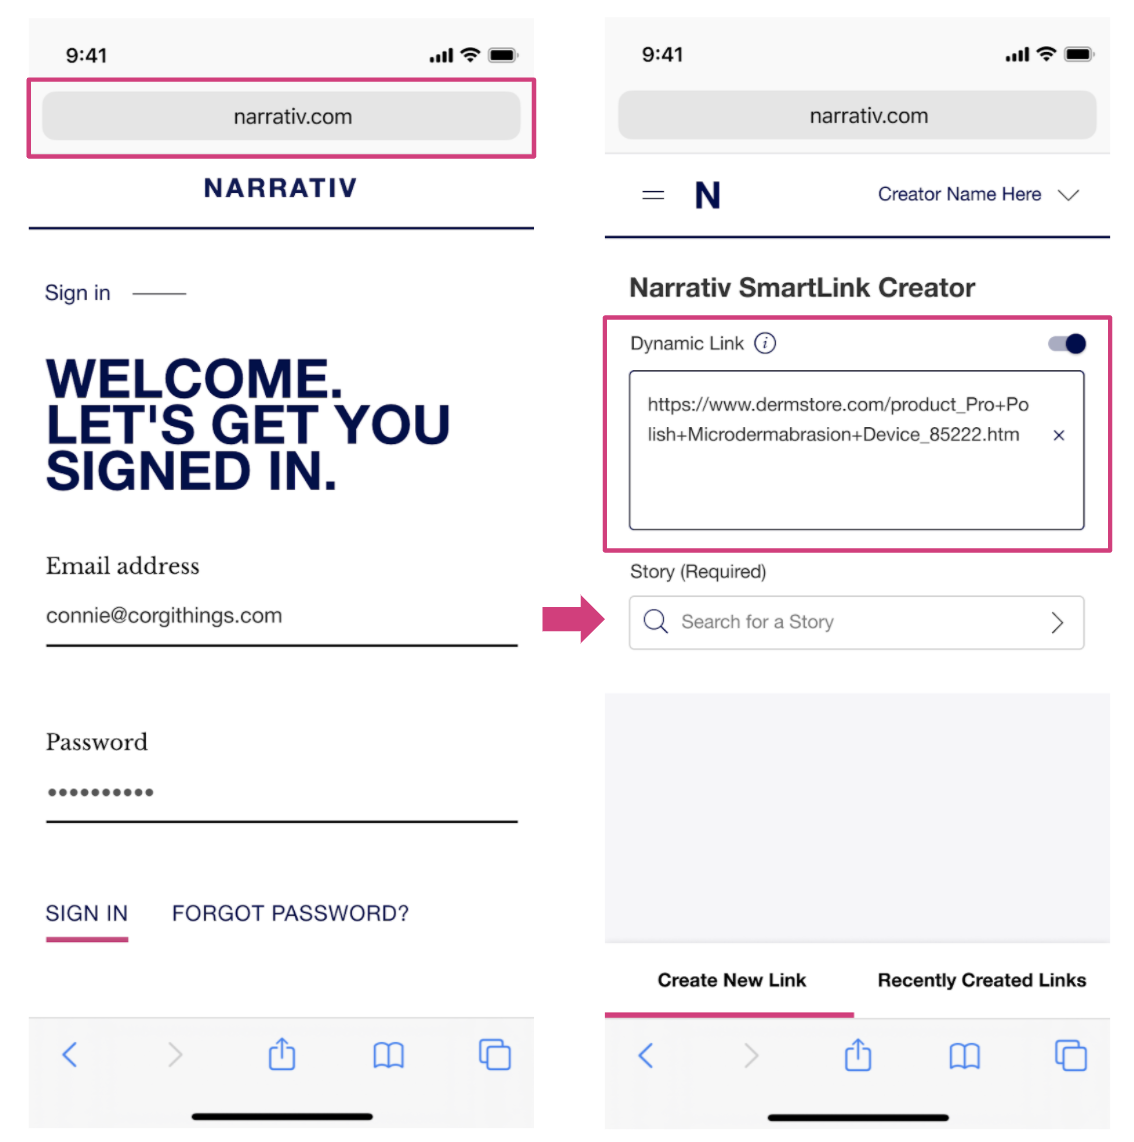
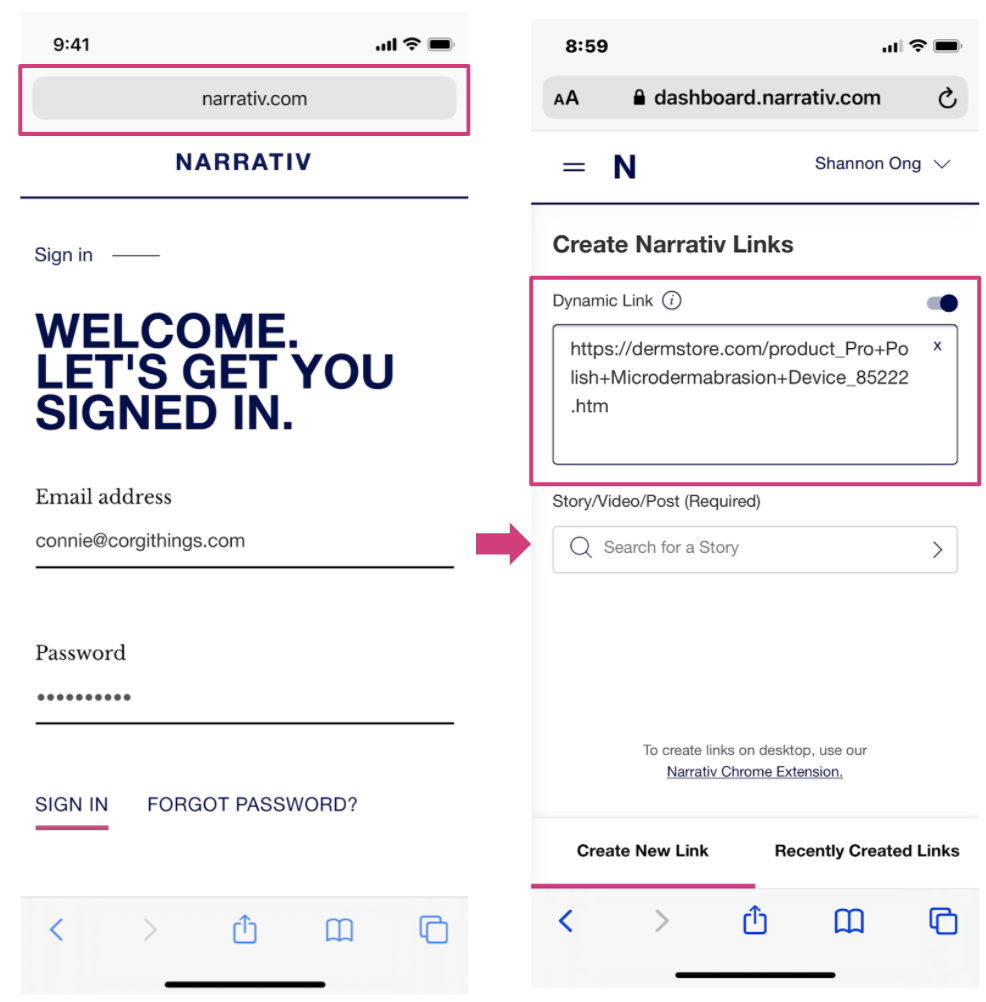
update mobile link creation api docs

diff --git a/docs/conf.py b/docs/conf.py
@@ -54,9 +54,9 @@ author = 'Narrativ'
 # built documents.
 #
 # The short X.Y version. (major version 1 corresponds to /api/v1/)
-version = '1.9.20'
+version = '1.9.21'
 # The full version, including alpha/beta/rc tags.
-release = '1.9.20'
+release = '1.9.21'
 
 # The language for content autogenerated by Sphinx. Refer to documentation
 # for a list of supported languages.

diff --git a/docs/mobile_link.rst b/docs/mobile_link.rst
@@ -1,34 +1,28 @@
 ====================================
-How to Use Mobile Link Creation
+How to Create Narrativ Mobile Links
 ====================================
 
 
-1. Sign In and Paste your Link
------------------------------------------------------------------------------------------
-Sign into dashboard.narrativ.com on any mobile browser and paste in your product link
+1. Log in to dashboard.narrativ.com on your phone – instructions below for Apple and Android
+---------------------------------------------------------------------------------------------
+On Apple’s Safari, hit the Share button at the bottom of your browser, then Add to Home Screen. You’ll see a Narrativ shortcut show up on your home screen for easy access.
 
+.. image:: _static/mobile_link_instructions/1-ios.png
+
+On Chrome on your Android, hit the Menu at the top right of your browser, then Add to Home Screen. You’ll see a Narrativ shortcut show up on your home screen.
+
+.. image:: _static/mobile_link_instructions/1-android.png
+
+
+2. Once you’re logged in, paste in any product URL
+---------------------------------------------------
 .. image:: _static/mobile_link_instructions/1.png
 
-
-2. Assign the link to an existing story or create a new one
-------------------------------------------------------------
-For publishers with multiple brands, each brand will have it's own account. Be sure to select the right brand for your
-article and link.
+Assign your link to an existing story/video/post or Create New Story and fill in the required fields.
 
 .. image:: _static/mobile_link_instructions/2.png
 
 
-3. Create and copy your link.
+3. Create and copy your link. You’re now ready to paste it into a story on any platform!
 -----------------------------------------------------------------------------------------
-You’re now ready to paste it into a story on any platform!
-
 .. image:: _static/mobile_link_instructions/3.png
-
-
-PRO TIP: Want a Narrativ “app” on your phone so you don’t have to open a browser window to make links? Just add
-dashboard.narrativ.com to your Home Screen.
-
-.. image:: _static/mobile_link_instructions/4.png
-
-.. image:: _static/mobile_link_instructions/5.png
-
